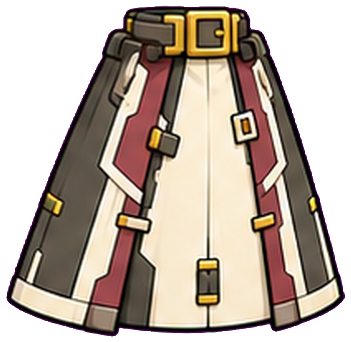
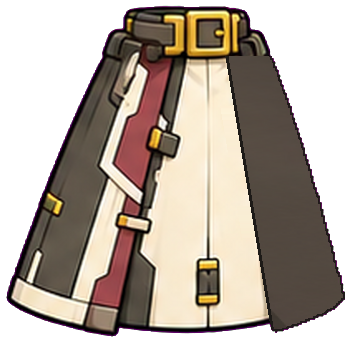
18 네온 니콜: 코트 앞트임 (뒤판+앞자락, 무릎·런지 때 벌어짐) — rig.js opt-in def.flap, 천 검사에 앞자락 추가
Claude-Session: https://claude.ai/code/session_015ytCrWApV92AMmnGMogyWc

Changed region(s): [[0.6268, 0.1462, 0.9972, 0.9942]]

diff --git a/assets/rig/nicole-neon/rig.def.js b/assets/rig/nicole-neon/rig.def.js
@@ -1,1 +1,1 @@
-window.MR_RIG_DEFS=window.MR_RIG_DEFS||{};window.MR_RIG_DEFS['nicole-neon']={"name":"nicole-neon","version":1,"units":"rig px (reference x2)","refOrigin":[261.7,506.0],"refScale":2.0,"refLift":0,"parts":{"skirt":{"src":"parts/skirt.png","pivot":[175.5,18.0],"scale":0.996,"mesh":{"cols":8,"rows":9}},"cape":{"src":"parts/cape.png","pivot":[101.0,10.0],"scale":1.06,"mesh":{"cols":6,"rows":7}},"torso":{"src":"parts/torso.png","pivot":[148.5,175.8],"scale":0.748},"pouchA":{"src":"parts/pouchA.png","pivot":[50.5,34.2],"scale":0.9716},"pouchB":{"src":"parts/pouchB.png","pivot":[51.0,33.9],"scale":0.9893},"collarBack":{"src":"parts/collarBack.png","pivot":[61.0,42.0],"scale":0.7779},"collar":{"src":"parts/collar.png","pivot":[61.0,42.0],"scale":0.7779},"head":{"src":"parts/head.png","pivot":[187.9,264.0],"scale":0.9868},"armU":{"src":"parts/armU.png","pivot":[56.3,29.9],"scale":1.2363},"armL":{"src":"parts/armL.png","pivot":[47.8,33.9],"scale":1.2363,"alt":"armLF"},"pauldron":{"src":"parts/pauldron.png","pivot":[69.6,89.5],"scale":0.8367},"pauldronF":{"src":"parts/pauldronF.png","pivot":[55.6,68.5],"scale":0.78},"armF":{"src":"parts/armF.png","pivot":[28.1,29.2],"scale":1.2363},"foreF":{"src":"parts/foreF.png","pivot":[35.1,30.8],"scale":1.2363},"fistF":{"src":"parts/fistF.png","pivot":[17.1,21.9],"scale":1.2674},"weapon":{"src":"parts/weapon.png","pivot":[107.9,622.0],"scale":0.7995,"tips":[[72.5,7.0],[141.5,7.0]]},"armLF":{"src":"parts/armLF.png","pivot":[73.7,38.3],"scale":1.2363,"grip":[55.6,136.4]},"handL":{"src":"parts/handL.png","pivot":[40.4,37.3],"scale":1.2363,"shaftDir":[1.0,-0.0008],"wrist":[4.0,60.0],"toElbow":[-0.862,0.506]},"handR":{"src":"parts/handR.png","pivot":[141.2,36.1],"scale":1.2363,"shaftDir":[1.0,-0.0004],"elbow":[3.0,36.0]},"waveSleeve":{"src":"parts/waveSleeve.png","pivot":[24.0,24.0],"scale":1.2363,"elbow":[33.5,86.9]},"waveFore":{"src":"parts/waveFore.png","pivot":[31.3,89.6],"scale":1.2363,"wrist":[104.3,32.6]},"waveHandW":{"src":"parts/waveHandW.png","pivot":[38.0,74.0],"scale":1.2363,"tip":[43.0,5.0]},"thigh":{"src":"parts/thigh.png","pivot":[38.1,36.0],"scale":1},"shin":{"src":"parts/shin.png","pivot":[28.0,28.1],"scale":1},"boot":{"src":"parts/boot.png","pivot":[45,30],"scale":1.177},"face_effort":{"src":"parts/face_effort.png","pivot":[86.9,171.0],"scale":0.9868},"face_shout":{"src":"parts/face_shout.png","pivot":[86.9,171.0],"scale":0.9868},"face_happy":{"src":"parts/face_happy.png","pivot":[86.9,171.0],"scale":0.9868},"face_sad":{"src":"parts/face_sad.png","pivot":[86.9,171.0],"scale":0.9868},"face_angry":{"src":"parts/face_angry.png","pivot":[86.9,171.0],"scale":0.9868},"face_grimace":{"src":"parts/face_grimace.png","pivot":[86.9,171.0],"scale":0.9868},"face_focus":{"src":"parts/face_focus.png","pivot":[86.9,171.0],"scale":0.9868},"face_relaxed":{"src":"parts/face_relaxed.png","pivot":[86.9,171.0],"scale":0.9868},"blink_half":{"src":"parts/blink_half.png","pivot":[86.9,171.0],"scale":0.9868},"blink_closed":{"src":"parts/blink_closed.png","pivot":[86.9,171.0],"scale":0.9868}},"bones":[{"name":"root","parent":null,"pos":[0,0]},{"name":"hip","parent":"root","pos":[34.0,-417.2]},{"name":"skirt","parent":"hip","pos":[-23.8,-16.6],"rot":0.0152,"part":"skirt"},{"name":"cape","parent":"hip","pos":[-119.4,26.2],"rot":0.68,"part":"cape"},{"name":"torso","parent":"hip","pos":[0.0,0.0],"rot":-0.0407,"part":"torso"},{"name":"pouchA","parent":"skirt","pos":[-64.6,25.8],"rot":0.0885,"part":"pouchA"},{"name":"pouchB","parent":"skirt","pos":[77.8,27.3],"rot":-0.0943,"part":"pouchB"},{"name":"collarBack","parent":"torso","pos":[-46.0,-125.8],"rot":0.0683,"part":"collarBack"},{"name":"collar","parent":"torso","pos":[-46.0,-125.8],"rot":0.0683,"part":"collar"},{"name":"head","parent":"torso","pos":[-45.9,-133.6],"rot":0.0631,"part":"head"},{"name":"armU","parent":"torso","pos":[-134.3,-75.3],"rot":-0.0682,"part":"armU"},{"name":"armL","parent":"armU","pos":[-34.1,65.7],"rot":0.0522,"part":"armL"},{"name":"pauldron","parent":"torso","pos":[-134.3,-75.3],"rot":-0.1009,"part":"pauldron"},{"name":"pauldronF","parent":"torso","pos":[49.7,-89.3],"rot":-0.2735,"part":"pauldronF"},{"name":"armF","parent":"torso","pos":[49.7,-89.3],"rot":-0.6631,"part":"armF"},{"name":"foreF","parent":"armF","pos":[30.5,68.2],"rot":-1.0538,"part":"foreF"},{"name":"fistF","parent":"foreF","pos":[30.0,71.0],"part":"fistF"},{"name":"weapon","parent":"fistF","pos":[31.9,24.5],"rot":1.7576,"part":"weapon"},{"name":"handL","parent":"weapon","pos":[0,0],"rot":-1.57,"part":"handL"},{"name":"handR","parent":"weapon","pos":[0,0],"rot":-1.5704,"part":"handR"},{"name":"wSleeve","parent":"torso","pos":[49.7,-89.3],"part":"waveSleeve"},{"name":"wFore","parent":"wSleeve","pos":[11.7,77.7],"part":"waveFore"},{"name":"wHand","parent":"wFore","pos":[90.3,-70.4],"part":"waveHandW"}],"legs":{"hip":[0,53],"thigh":150,"shin":146,"thighImg":{"part":"thigh","a":[38.1,36.0],"b":[44.7,110.8],"w":0.605},"shinImg":{"part":"shin","a":[28.0,28.1],"b":[35.8,98.1],"w":0.638},"boot":{"part":"boot","sole":[[-38,50],[-30,58],[45,58],[66,50]],"ankleRange":[-0.62,0.56]},"near":{"x":40,"shade":0},"far":{"x":-60,"shade":0.16}},"draw":["cape","legFar","legNear","armF","torso","collarBack","pauldronF","skirt","pouchB","weapon","foreF","fistF","handL","pouchA","armL","armU","pauldron","handR","head","collar"],"drawWave":["cape","legFar","legNear","armF","wSleeve","torso","collarBack","pauldronF","skirt","pouchB","weapon","foreF","fistF","handL","pouchA","wFore","armL","armU","pauldron","handR","head","collar","wHand"],"hidden":["handL","handR","wSleeve","wFore","wHand"],"faces":{"effort":"face_effort","shout":"face_shout","happy":"face_happy","sad":"face_sad","angry":"face_angry","grimace":"face_grimace","focus":"face_focus","relaxed":"face_relaxed"},"waveImg":{"upper":1.4217,"fore":-0.6622,"hand":-1.4985,"handRest":-0.357,"shoulderShift":[0,18],"up":1.15,"fore0":-1.2,"note":"먼 팔(창 팔) 손 흔들기: 소매는 상체 뒤, 먼 어깨갑(pauldronF)이 어깨를 덮음"},"hemRun":{"lift":12,"knee":0.7,"heel":0.6,"reach":0.15,"kneeX":0.3,"lungeK":0.45,"lungeX":0.35,"actKnee":0.6},"hemLimit":{"up":0.28,"x":0.32},"dropLift":16,"hemRest":true,"idleStance":{"near":40,"far":-106},"follow":[{"bone":"pauldronF","src":"armF","k":0.35}],"runForeBend":-0.45,"wristRange":0.55,"runTilt":0,"metrics":{"bodyHeight":786,"heightWithWeapon":1009,"note":"rig units. bodyHeight = 머리카락 위 ~ 발바닥(대기), 무기 제외","shaftWidth":34,"fistWidth":70,"forearmThickness":50},"ui":{"attack":"thrust","touch":"wave","stillSame":true},"note":"18 네온 니콜. 8 러스트 니콜(rust-fork-girl v15)과 같은 뼈대·동작. 다른 점: 칼라(collar)·먼 어깨갑(pauldronF, 먼 팔을 35% 따라 돎)·코트 꼬리(cape, 허리 뼈)·파우치 2개(코트 위 고정)·그린 깜빡임","blinkFaces":{"half":"blink_half","closed":"blink_closed"},"faceInfo":{"closedEyes":["happy","grimace"],"note":"표정 시트 10칸에서 얼굴(피부+먼 눈)만 오려 기준 머리에 ECC 정렬. 머리카락·윤곽은 항상 기준 머리"},"actions":{"thrust":{"dur":0.8,"hitAt":0.3,"cancelAt":0.54,"w":[[0,0,"o"],[0.1,1],[0.58,1,"io"],[0.8,0]],"hipX":[[0,0,"io"],[0.18,-26,"s"],[0.3,92],[0.42,88,"io"],[0.7,0]],"hipY":[[0,0,"io"],[0.18,30,"s"],[0.3,64],[0.42,62,"io"],[0.7,-2,"io"],[0.75,6,"io"],[0.8,0]],"lean":[[0,0,"io"],[0.18,-0.1,"s"],[0.3,0.22],[0.42,0.2,"io"],[0.7,0]],"head":[[0,0,"io"],[0.18,0.06,"s"],[0.3,-0.12],[0.42,-0.1,"io"],[0.7,0]],"breath":[[0,0,"io"],[0.16,1,"o"],[0.3,-0.4,"io"],[0.48,-0.6,"io"],[0.8,0]],"twist":[[0,0,"io"],[0.18,-0.7,"s"],[0.3,0.7],[0.42,0.6,"io"],[0.7,0]],"ang":[[0,0.05,"io"],[0.18,1,"s"],[0.3,1.4,"o"],[0.33,1.36,"io"],[0.42,1.39,"io"],[0.62,1.2,"io"],[0.79,0.35]],"thF":[[0,0.35,"io"],[0.18,0.22,"s"],[0.3,0.3,"o"],[0.33,0.26,"io"],[0.42,0.29,"io"],[0.62,0.3,"io"],[0.79,0.35]],"nearW":[[0,0,"io"],[0.17,1],[0.54,1,"io"],[0.7,0]],"gap":[[0,170,"io"],[0.18,165,"io"],[0.3,170,"io"],[0.6,170]],"farDx":[[0,0,"io"],[0.18,0,"s"],[0.3,190],[0.46,190,"io"],[0.64,0]],"farLift":[[0,0],[0.18,0,"io"],[0.24,32,"io"],[0.3,0],[0.46,0,"io"],[0.55,24,"io"],[0.64,0]],"farAng":[[0,0],[0.21,0,"io"],[0.27,-0.24,"io"],[0.33,0]],"nearDx":[[0,0,"io"],[0.03,0,"io"],[0.15,-45],[0.62,-45,"io"],[0.76,0]],"nearLift":[[0,0],[0.03,0,"io"],[0.09,16,"io"],[0.15,0],[0.62,0,"io"],[0.69,14,"io"],[0.76,0]],"nearAng":[[0,0],[0.21,0,"io"],[0.31,0.2],[0.44,0.18,"io"],[0.6,0]],"trail":[[0,0],[0.19,0,"lin"],[0.22,1],[0.34,1,"lin"],[0.41,0]],"shake":[[0,0],[0.3,0,"lin"],[0.31,1],[0.42,0]],"face":[[0,"effort"],[0.19,"shout"],[0.4,"focus"],[0.62,"relaxed"],[0.76,null]],"slide":[[0,0,"o"],[0.08,55,"io"],[0.18,95,"s"],[0.3,130,"o"],[0.42,130,"io"],[0.62,70,"io"],[0.79,0]]}}};
+window.MR_RIG_DEFS=window.MR_RIG_DEFS||{};window.MR_RIG_DEFS['nicole-neon']={"name":"nicole-neon","version":1,"units":"rig px (reference x2)","refOrigin":[261.7,506.0],"refScale":2.0,"refLift":0,"parts":{"skirt":{"src":"parts/skirt.png","pivot":[175.5,18.0],"scale":0.996,"mesh":{"cols":8,"rows":9}},"cape":{"src":"parts/cape.png","pivot":[101.0,10.0],"scale":1.06,"mesh":{"cols":6,"rows":7}},"torso":{"src":"parts/torso.png","pivot":[148.5,175.8],"scale":0.748},"pouchA":{"src":"parts/pouchA.png","pivot":[50.5,34.2],"scale":0.9716},"pouchB":{"src":"parts/pouchB.png","pivot":[51.0,33.9],"scale":0.9893},"collarBack":{"src":"parts/collarBack.png","pivot":[61.0,42.0],"scale":0.7779},"collar":{"src":"parts/collar.png","pivot":[61.0,42.0],"scale":0.7779},"head":{"src":"parts/head.png","pivot":[187.9,264.0],"scale":0.9868},"armU":{"src":"parts/armU.png","pivot":[56.3,29.9],"scale":1.2363},"armL":{"src":"parts/armL.png","pivot":[47.8,33.9],"scale":1.2363,"alt":"armLF"},"pauldron":{"src":"parts/pauldron.png","pivot":[69.6,89.5],"scale":0.8367},"pauldronF":{"src":"parts/pauldronF.png","pivot":[55.6,68.5],"scale":0.78},"armF":{"src":"parts/armF.png","pivot":[28.1,29.2],"scale":1.2363},"foreF":{"src":"parts/foreF.png","pivot":[35.1,30.8],"scale":1.2363},"fistF":{"src":"parts/fistF.png","pivot":[17.1,21.9],"scale":1.2674},"weapon":{"src":"parts/weapon.png","pivot":[107.9,622.0],"scale":0.7995,"tips":[[72.5,7.0],[141.5,7.0]]},"coatFlap":{"src":"parts/coatFlap.png","pivot":[-45.5,-32.0],"scale":0.996,"mesh":{"cols":3,"rows":9}},"armLF":{"src":"parts/armLF.png","pivot":[73.7,38.3],"scale":1.2363,"grip":[55.6,136.4]},"handL":{"src":"parts/handL.png","pivot":[40.4,37.3],"scale":1.2363,"shaftDir":[1.0,-0.0008],"wrist":[4.0,60.0],"toElbow":[-0.862,0.506]},"handR":{"src":"parts/handR.png","pivot":[141.2,36.1],"scale":1.2363,"shaftDir":[1.0,-0.0004],"elbow":[3.0,36.0]},"waveSleeve":{"src":"parts/waveSleeve.png","pivot":[24.0,24.0],"scale":1.2363,"elbow":[33.5,86.9]},"waveFore":{"src":"parts/waveFore.png","pivot":[31.3,89.6],"scale":1.2363,"wrist":[104.3,32.6]},"waveHandW":{"src":"parts/waveHandW.png","pivot":[38.0,74.0],"scale":1.2363,"tip":[43.0,5.0]},"thigh":{"src":"parts/thigh.png","pivot":[38.1,36.0],"scale":1},"shin":{"src":"parts/shin.png","pivot":[28.0,28.1],"scale":1},"boot":{"src":"parts/boot.png","pivot":[45,30],"scale":1.177},"face_effort":{"src":"parts/face_effort.png","pivot":[86.9,171.0],"scale":0.9868},"face_shout":{"src":"parts/face_shout.png","pivot":[86.9,171.0],"scale":0.9868},"face_happy":{"src":"parts/face_happy.png","pivot":[86.9,171.0],"scale":0.9868},"face_sad":{"src":"parts/face_sad.png","pivot":[86.9,171.0],"scale":0.9868},"face_angry":{"src":"parts/face_angry.png","pivot":[86.9,171.0],"scale":0.9868},"face_grimace":{"src":"parts/face_grimace.png","pivot":[86.9,171.0],"scale":0.9868},"face_focus":{"src":"parts/face_focus.png","pivot":[86.9,171.0],"scale":0.9868},"face_relaxed":{"src":"parts/face_relaxed.png","pivot":[86.9,171.0],"scale":0.9868},"blink_half":{"src":"parts/blink_half.png","pivot":[86.9,171.0],"scale":0.9868},"blink_closed":{"src":"parts/blink_closed.png","pivot":[86.9,171.0],"scale":0.9868}},"bones":[{"name":"root","parent":null,"pos":[0,0]},{"name":"hip","parent":"root","pos":[34.0,-417.2]},{"name":"skirt","parent":"hip","pos":[-23.8,-16.6],"rot":0.0152,"part":"skirt"},{"name":"cape","parent":"hip","pos":[-119.4,26.2],"rot":0.68,"part":"cape"},{"name":"torso","parent":"hip","pos":[0.0,0.0],"rot":-0.0407,"part":"torso"},{"name":"pouchA","parent":"skirt","pos":[-64.6,25.8],"rot":0.0885,"part":"pouchA"},{"name":"pouchB","parent":"skirt","pos":[77.8,27.3],"rot":-0.0943,"part":"pouchB"},{"name":"collarBack","parent":"torso","pos":[-46.0,-125.8],"rot":0.0683,"part":"collarBack"},{"name":"collar","parent":"torso","pos":[-46.0,-125.8],"rot":0.0683,"part":"collar"},{"name":"head","parent":"torso","pos":[-45.9,-133.6],"rot":0.0631,"part":"head"},{"name":"armU","parent":"torso","pos":[-134.3,-75.3],"rot":-0.0682,"part":"armU"},{"name":"armL","parent":"armU","pos":[-34.1,65.7],"rot":0.0522,"part":"armL"},{"name":"pauldron","parent":"torso","pos":[-134.3,-75.3],"rot":-0.1009,"part":"pauldron"},{"name":"pauldronF","parent":"torso","pos":[49.7,-89.3],"rot":-0.2735,"part":"pauldronF"},{"name":"armF","parent":"torso","pos":[49.7,-89.3],"rot":-0.6631,"part":"armF"},{"name":"foreF","parent":"armF","pos":[30.5,68.2],"rot":-1.0538,"part":"foreF"},{"name":"fistF","parent":"foreF","pos":[30.0,71.0],"part":"fistF"},{"name":"weapon","parent":"fistF","pos":[31.9,24.5],"rot":1.7576,"part":"weapon"},{"name":"coatFlap","parent":"skirt","pos":[0,0],"part":"coatFlap"},{"name":"handL","parent":"weapon","pos":[0,0],"rot":-1.57,"part":"handL"},{"name":"handR","parent":"weapon","pos":[0,0],"rot":-1.5704,"part":"handR"},{"name":"wSleeve","parent":"torso","pos":[49.7,-89.3],"part":"waveSleeve"},{"name":"wFore","parent":"wSleeve","pos":[11.7,77.7],"part":"waveFore"},{"name":"wHand","parent":"wFore","pos":[90.3,-70.4],"part":"waveHandW"}],"legs":{"hip":[0,53],"thigh":150,"shin":146,"thighImg":{"part":"thigh","a":[38.1,36.0],"b":[44.7,110.8],"w":0.605},"shinImg":{"part":"shin","a":[28.0,28.1],"b":[35.8,98.1],"w":0.638},"boot":{"part":"boot","sole":[[-38,50],[-30,58],[45,58],[66,50]],"ankleRange":[-0.62,0.56]},"near":{"x":40,"shade":0},"far":{"x":-60,"shade":0.16}},"draw":["cape","legFar","legNear","armF","torso","collarBack","pauldronF","skirt","coatFlap","pouchB","weapon","foreF","fistF","handL","pouchA","armL","armU","pauldron","handR","head","collar"],"drawWave":["cape","legFar","legNear","armF","wSleeve","torso","collarBack","pauldronF","skirt","coatFlap","pouchB","weapon","foreF","fistF","handL","pouchA","wFore","armL","armU","pauldron","handR","head","collar","wHand"],"hidden":["handL","handR","wSleeve","wFore","wHand"],"faces":{"effort":"face_effort","shout":"face_shout","happy":"face_happy","sad":"face_sad","angry":"face_angry","grimace":"face_grimace","focus":"face_focus","relaxed":"face_relaxed"},"waveImg":{"upper":1.4217,"fore":-0.6622,"hand":-1.4985,"handRest":-0.357,"shoulderShift":[0,18],"up":1.15,"fore0":-1.2,"note":"먼 팔(창 팔) 손 흔들기: 소매는 상체 뒤, 먼 어깨갑(pauldronF)이 어깨를 덮음"},"hemRun":{"lift":12,"knee":0.7,"heel":0.6,"reach":0.15,"kneeX":0.3,"lungeK":0.45,"lungeX":0.35,"actKnee":0.6},"hemLimit":{"up":0.28,"x":0.32},"flap":{"part":"coatFlap","off":[221.0,50.0],"openX":46,"openY":18,"knee":0.012,"kneeUp":0.008,"lunge":0.009},"dropLift":16,"hemRest":true,"idleStance":{"near":40,"far":-106},"follow":[{"bone":"pauldronF","src":"armF","k":0.35}],"runForeBend":-0.45,"wristRange":0.55,"runTilt":0,"metrics":{"bodyHeight":786,"heightWithWeapon":1009,"note":"rig units. bodyHeight = 머리카락 위 ~ 발바닥(대기), 무기 제외","shaftWidth":34,"fistWidth":70,"forearmThickness":50},"ui":{"attack":"thrust","touch":"wave","stillSame":true},"note":"18 네온 니콜. 8 러스트 니콜(rust-fork-girl v15)과 같은 뼈대·동작. 다른 점: 칼라(collar)·먼 어깨갑(pauldronF, 먼 팔을 35% 따라 돎)·코트 꼬리(cape, 허리 뼈)·파우치 2개(코트 위 고정)·그린 깜빡임","blinkFaces":{"half":"blink_half","closed":"blink_closed"},"faceInfo":{"closedEyes":["happy","grimace"],"note":"표정 시트 10칸에서 얼굴(피부+먼 눈)만 오려 기준 머리에 ECC 정렬. 머리카락·윤곽은 항상 기준 머리"},"actions":{"thrust":{"dur":0.8,"hitAt":0.3,"cancelAt":0.54,"w":[[0,0,"o"],[0.1,1],[0.58,1,"io"],[0.8,0]],"hipX":[[0,0,"io"],[0.18,-26,"s"],[0.3,92],[0.42,88,"io"],[0.7,0]],"hipY":[[0,0,"io"],[0.18,30,"s"],[0.3,64],[0.42,62,"io"],[0.7,-2,"io"],[0.75,6,"io"],[0.8,0]],"lean":[[0,0,"io"],[0.18,-0.1,"s"],[0.3,0.22],[0.42,0.2,"io"],[0.7,0]],"head":[[0,0,"io"],[0.18,0.06,"s"],[0.3,-0.12],[0.42,-0.1,"io"],[0.7,0]],"breath":[[0,0,"io"],[0.16,1,"o"],[0.3,-0.4,"io"],[0.48,-0.6,"io"],[0.8,0]],"twist":[[0,0,"io"],[0.18,-0.7,"s"],[0.3,0.7],[0.42,0.6,"io"],[0.7,0]],"ang":[[0,0.05,"io"],[0.18,1,"s"],[0.3,1.4,"o"],[0.33,1.36,"io"],[0.42,1.39,"io"],[0.62,1.2,"io"],[0.79,0.35]],"thF":[[0,0.35,"io"],[0.18,0.22,"s"],[0.3,0.3,"o"],[0.33,0.26,"io"],[0.42,0.29,"io"],[0.62,0.3,"io"],[0.79,0.35]],"nearW":[[0,0,"io"],[0.17,1],[0.54,1,"io"],[0.7,0]],"gap":[[0,170,"io"],[0.18,165,"io"],[0.3,170,"io"],[0.6,170]],"farDx":[[0,0,"io"],[0.18,0,"s"],[0.3,190],[0.46,190,"io"],[0.64,0]],"farLift":[[0,0],[0.18,0,"io"],[0.24,32,"io"],[0.3,0],[0.46,0,"io"],[0.55,24,"io"],[0.64,0]],"farAng":[[0,0],[0.21,0,"io"],[0.27,-0.24,"io"],[0.33,0]],"nearDx":[[0,0,"io"],[0.03,0,"io"],[0.15,-45],[0.62,-45,"io"],[0.76,0]],"nearLift":[[0,0],[0.03,0,"io"],[0.09,16,"io"],[0.15,0],[0.62,0,"io"],[0.69,14,"io"],[0.76,0]],"nearAng":[[0,0],[0.21,0,"io"],[0.31,0.2],[0.44,0.18,"io"],[0.6,0]],"trail":[[0,0],[0.19,0,"lin"],[0.22,1],[0.34,1,"lin"],[0.41,0]],"shake":[[0,0],[0.3,0,"lin"],[0.31,1],[0.42,0]],"face":[[0,"effort"],[0.19,"shout"],[0.4,"focus"],[0.62,"relaxed"],[0.76,null]],"slide":[[0,0,"o"],[0.08,55,"io"],[0.18,95,"s"],[0.3,130,"o"],[0.42,130,"io"],[0.62,70,"io"],[0.79,0]]}}};

diff --git a/assets/rig/rig.js b/assets/rig/rig.js
@@ -767,6 +767,7 @@
       const skPivot = apply(sk.m, 0, 0), restKneeY = apply(b.hip.m, 0, L.hip[1])[1] + L.thigh * .98;
       const cols = this.hem.length - 1, drag = A * 26 + clamp(-accel * .008, -30, 30);
       const actW = act ? this._tr('w') : 0;
+      let openT = 0;
       for (let i = 0; i <= cols; i++) {
         const u = i / cols, front = smooth(.45, 1, u), back = smooth(.6, 0, u);
         // running: the whole hem rides up a little (air under the cloth) so the boots show at every step (L41)
@@ -786,6 +787,7 @@
           // lunge: a foot planted far in front drags the front hem up the shin (cloth drapes from the waist over the knee)
           const lunge = actW * clamp((rig.def.hemLungeRel ? P.ankle[0] - this.hipX[side] - 10 : P.ankle[0] - skPivot[0] + 30) * 1.1, 0, 115), fr2 = smooth(.4, .95, u);   // hemLungeRel: 발이 제자리보다 앞으로 나갈 때만 (스카이: 앞발이 원래 앞쪽에 서 있음)
           const LK = H_.lungeK ?? 1; ty -= fr2 * lunge * LK; tx += fr2 * lunge * .35 * (H_.lungeX ?? 1) * LK;
+          if (rig.def.flap && i === cols) openT = Math.max(openT, kneeFwd * (rig.def.flap.knee ?? .012) + kneeUp * (rig.def.flap.kneeUp ?? .008) + lunge * (rig.def.flap.lunge ?? .009));   // 앞트임 벌어짐 (18 네온)
         }
         this.hem[i][0].step(tx, dt); this.hem[i][1].step(ty, dt);
       }
@@ -797,6 +799,11 @@
       const hc = this.hemC;
       rig.meshFx.skirt = (u, v, x, y) => { const w = v * v * (1.4 - .4 * v), f = u * cols, i = Math.min(cols - 1, Math.floor(f)), t = f - i;
         const hx = lerp(hc[i][0], hc[i + 1][0], t), hy = lerp(hc[i][1], hc[i + 1][1], t); return [hx * w + x * flare * w, hy * w + y * (rig.def.skirtStretch || 0) * v] };   // skirtStretch: 치마 길이만 늘림 (허리띠를 벨트 뒤로 올린 만큼)
+      // 코트 앞자락(앞트임 오른쪽, opt-in rig.def.flap): 같은 코트 변형을 따르고, 앞 무릎·런지만큼 트임 쪽 가장자리가 앞으로 벌어짐 → 안감(뒤판)이 보임
+      if (rig.def.flap) { const FL = rig.def.flap, fim = rig.images[FL.part], sim = rig.images.skirt, skFx = rig.meshFx.skirt;
+        this.flapOpen = this.flapOpen || new Spring(90, 12); const op = clamp(this.flapOpen.step(clamp(openT, 0, 1), dt), 0, 1.1); this.flapAmt = op;
+        if (fim && sim) rig.meshFx[FL.part] = (u, v, x, y) => { const U = (u * fim.width + FL.off[0]) / sim.width, V = (v * fim.height + FL.off[1]) / sim.height, o = skFx(U, V, x, y), e = Math.pow(V, 1.25) * op;
+          return [o[0] + e * FL.openX * (1 - .45 * u), o[1] - e * FL.openY * (1 - .3 * u)] } }
 
       // ---------- cape: trails behind, flutters, lags the bounce ----------
       const capeA = this.cape.step(clamp(lvx * .0011 + accel * .00012, -.25, .9), dt);

diff --git a/assets/rig/tools/audit_extra.html b/assets/rig/tools/audit_extra.html
@@ -33,7 +33,7 @@ function elbows(){const P=n=>rig.point(n),r={};const rel=(u,v)=>wrap(ang(v)-ang(
  if(rig.by.foreF){const pf=rig.def.parts[rig.swap.foreF||'foreF'],s=P('armF'),e=P('foreF'),w=pf.grip?rig.partPoint('foreF',...pf.grip):rig.by.fistF?P('fistF'):P('handL');r.F=rel(sub(e,s),sub(w,e))}
  if(rig.by.armL){const pn=rig.def.parts[rig.swap.armL||'armL'],s=P('armU'),e=P('armL'),w=rig.by.fistN?P('fistN'):rig.alpha.handR>.5?P('handR'):(pn.grip||pn.wrist)?rig.partPoint('armL',...(pn.grip||pn.wrist)):null;if(w)r.N=rel(sub(e,s),sub(w,e))}return r}
 // 5) 천 물리: skirt/cape 메시 각 칸의 넓이비(변형 후/원래)·접힘(음수)·변 늘어남 비율. 과한 찌그러짐 = 넓이비 <0.55 또는 >1.6, 변 비율 >1.5
-function cloth(){const out={};for(const pn of ['skirt','cape']){const part=rig.def.parts[pn],fx=rig.meshFx[pn];if(!part||!part.mesh||!fx)continue;
+function cloth(){const out={};for(const pn of ['skirt','cape',...(rig.def.flap?[rig.def.flap.part]:[])]){const part=rig.def.parts[pn],fx=rig.meshFx[pn];if(!part||!part.mesh||!fx)continue;
  const {cols,rows}=part.mesh,im=rig.images[pn],W=im.width,H=im.height,[px,py]=part.pivot,k=part.scale||1,n=cols+1;const P=[];
  for(let j=0;j<=rows;j++)for(let i=0;i<=cols;i++){const X=i/cols*W,Y=j/rows*H;const o=fx(i/cols,j/rows,(X-px)*k,(Y-py)*k)||[0,0];P.push([X+o[0]/k,Y+o[1]/k])}
  const A0=(W/cols)*(H/rows);let amin=1e9,amax=0,emax=0,fold=0;

diff --git a/assets/rig/nicole-neon/source/build_neon.py b/assets/rig/nicole-neon/source/build_neon.py
@@ -30,7 +30,7 @@ ROOT = A([H[0] - 34, GROUND])
 
 P = {}   # 이름 -> dict(file, M, at(관절, 기준 좌표))
 P['torso'] = dict(file='cut/torso.png', M=A(S['torso']['M']), at=H)
-P['skirt'] = dict(file='cut/coat.png', M=A(S['coat']['M']))
+P['skirt'] = dict(file=T('coatFile', 'cut/coatBack.png'), M=A(S['coat']['M']))   # 2026-10-17: 코트 뒤판(트임 뒤 안감 포함). 앞자락은 coatFlap
 cw = Image.open(os.path.join(HERE, 'cut/coat.png')).size; P['skirt']['at'] = ap(P['skirt']['M'], (cw[0] / 2, 18))
 P['collarBack'] = None
 P['head'] = dict(file='cut/head.png', M=A(S['head']['M']), at=NECK)
@@ -103,6 +103,11 @@ for name, parent in bones:
     if name in P: b['part'] = name
     out_bones.append(b)
 parts['skirt']['mesh'] = {'cols': 8, 'rows': 9}; parts['cape']['mesh'] = {'cols': 6, 'rows': 7}
+# 코트 앞자락: 뒤판과 같은 뼈·배율, 그림 위치만 옮김(sheets/coatSplit 에서 맞춘 평행이동 motion/flapM.npy, 겹침 IoU 0.997)
+FLM = np.load(os.path.join(HERE, 'motion', 'flapM.npy')); FOFF = [float(FLM[0, 2]), float(FLM[1, 2])]
+shutil.copy(os.path.join(HERE, 'cut/coatFlap.png'), os.path.join(PARTS, 'coatFlap.png'))
+sp_ = parts['skirt']['pivot']; parts['coatFlap'] = {'src': 'parts/coatFlap.png', 'pivot': [round(sp_[0] - FOFF[0], 1), round(sp_[1] - FOFF[1], 1)], 'scale': parts['skirt']['scale'], 'mesh': {'cols': 3, 'rows': 9}}
+out_bones.append({'name': 'coatFlap', 'parent': 'skirt', 'pos': [0, 0], 'part': 'coatFlap'})
 
 # 달리기 주먹(armLF): 그림 축을 armL 그림 축과 같게 돌려 저장 → 바꿔 그려도 팔뚝 방향이 그대로
 def axis(fn):
@@ -165,8 +170,8 @@ LIFT = T('idleLift', 14)
 for b_ in out_bones:
     if b_['name'] == 'hip': b_['pos'][1] = round(b_['pos'][1] - LIFT, 1)
 legs['hip'][1] = legs['hip'][1] + LIFT
-draw = ['cape', 'legFar', 'legNear', 'armF', 'torso', 'collarBack', 'pauldronF', 'skirt', 'pouchB', 'weapon', 'foreF', 'fistF', 'handL', 'pouchA', 'armL', 'armU', 'pauldron', 'handR', 'head', 'collar']
-drawWave = ['cape', 'legFar', 'legNear', 'armF', 'wSleeve', 'torso', 'collarBack', 'pauldronF', 'skirt', 'pouchB', 'weapon', 'foreF', 'fistF', 'handL', 'pouchA', 'wFore', 'armL', 'armU', 'pauldron', 'handR', 'head', 'collar', 'wHand']
+draw = ['cape', 'legFar', 'legNear', 'armF', 'torso', 'collarBack', 'pauldronF', 'skirt', 'coatFlap', 'pouchB', 'weapon', 'foreF', 'fistF', 'handL', 'pouchA', 'armL', 'armU', 'pauldron', 'handR', 'head', 'collar']
+drawWave = ['cape', 'legFar', 'legNear', 'armF', 'wSleeve', 'torso', 'collarBack', 'pauldronF', 'skirt', 'coatFlap', 'pouchB', 'weapon', 'foreF', 'fistF', 'handL', 'pouchA', 'wFore', 'armL', 'armU', 'pauldron', 'handR', 'head', 'collar', 'wHand']
 wt = ap(np.linalg.inv(np.vstack([MW, [0, 0, 1]]))[:2], (0, 0))
 # 집게 두 날 끝(창 그림 좌표): 위 끝 줄에서 왼쪽·오른쪽 덩어리 가운데
 wa2 = np.asarray(Image.open(os.path.join(HERE, 'parts_work/weapon.png')))[..., 3] > 128; ys2, xs2 = np.nonzero(wa2); ytop = ys2.min()
@@ -178,6 +183,7 @@ rig = {'name': 'nicole-neon', 'version': 1, 'units': 'rig px (reference x2)', 'r
        'hidden': ['handL', 'handR', 'wSleeve', 'wFore', 'wHand'], 'faces': {}, 'waveImg': waveImg,
        'hemRun': T('hemRun', {'lift': 22, 'knee': 1.2, 'heel': .9, 'reach': .4}),
        'hemLimit': T('hemLimit', {'up': .32, 'x': .45}),
+       'flap': {'part': 'coatFlap', 'off': FOFF, **T('flap', {'openX': 46, 'openY': 18, 'knee': .012, 'kneeUp': .008, 'lunge': .009})},
        'dropLift': T('dropLift', 16), 'hemRest': True, 'idleStance': T('idleStance', {'near': 40, 'far': -80}),
        'follow': [{'bone': 'pauldronF', 'src': 'armF', 'k': .35}],
        'runForeBend': T('runForeBend', -0.45), 'wristRange': T('wristRange', .55), 'runTilt': T('runTilt', 0),

diff --git a/assets/rig/nicole-neon/STATUS.md b/assets/rig/nicole-neon/STATUS.md
@@ -19,3 +19,5 @@
 - 찌르기: 시트는 창을 수평 그대로 허리로 당겼다 찌름(지금 리그는 위로 젖혔다 내림). 맞춤값은 tune.json thrustFull_wip — 겹침 0.53→0.68까지 올랐으나 엉덩이 각도 초과(−110°) + 코트가 안 벌어져 다리 모양이 시트와 다름 → 보류.
 - 달리기: 실루엣 겹침만으로 맞추면 골반을 과하게 낮춤(hipBase 88) — 코트가 한 장이라 다리 대신 코트로 겹침을 채우는 '꼼수 해'. **실루엣 IoU만으로 동작을 맞추면 안 됨** → 발·무릎·손·머리 위치(관절점) 기준 맞춤으로 바꿀 것.
 - 막힌 것: 코트 앞트임 조각(앞자락 / 뒤판+안감) — DHL에게 시트 요청함. 받으면 코트 2장 → 관절점 맞춤 → 찌르기·달리기 교체 → 검사 전부 통과 후 반영.
+- 11:46 코트 트임 시트(sheets/coatSplit.png) 받음 → 코트 = 뒤판(skirt, 트임 뒤 안감 포함) + 앞자락(coatFlap). 두 장 겹침이 원래 코트와 IoU 0.997·색 차이 1.9. 엔진 opt-in def.flap: 앞자락은 뒤판 변형을 그대로 따르고 앞 무릎·런지만큼 트임 쪽이 벌어짐(안감 보임). 천 검사에 coatFlap 추가(접힘 0, 변 ≤1.59). 게임 반영.
+- 찌르기 수평 당기기 시도(tune.json thrustOverride_wip): 창은 수평이 됐지만 시트보다 창이 높고(가슴), 발 벌림 좁음 → 관절점 맞춤 필요, 보류.
